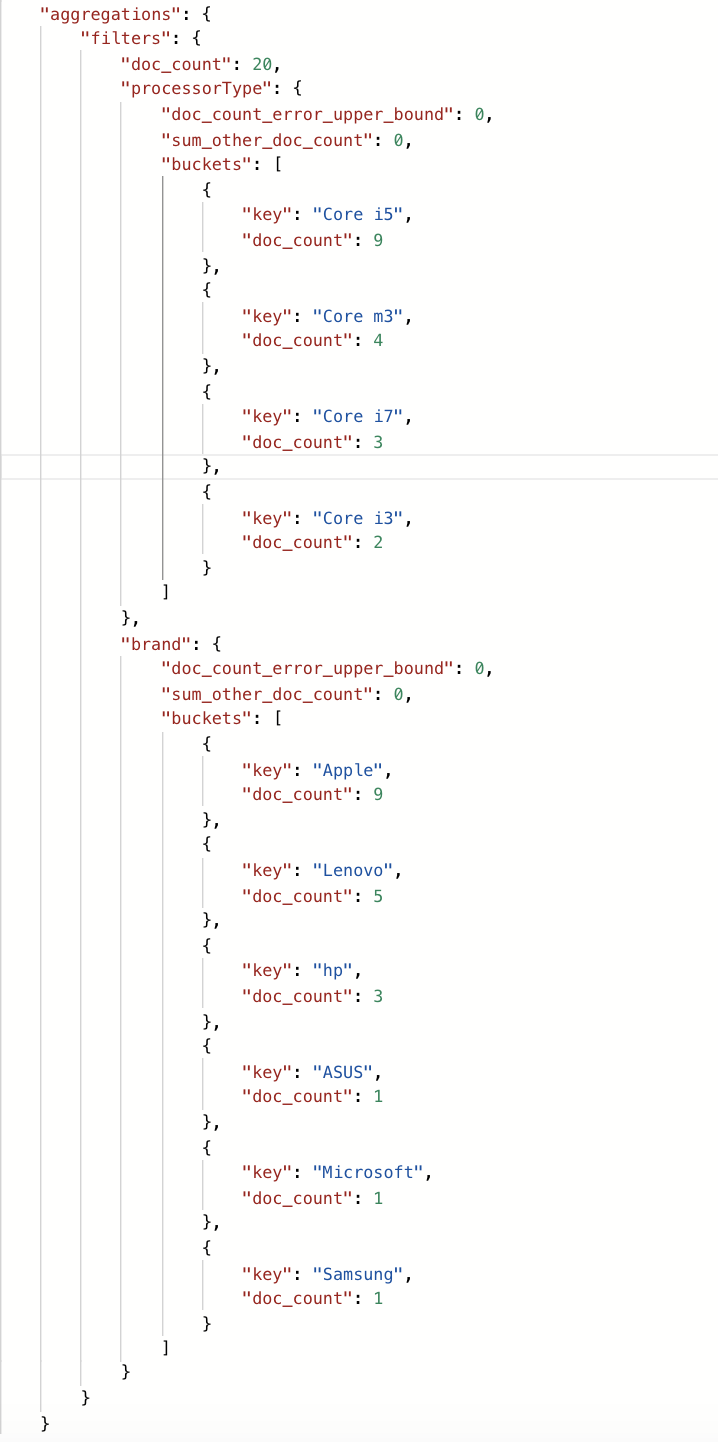
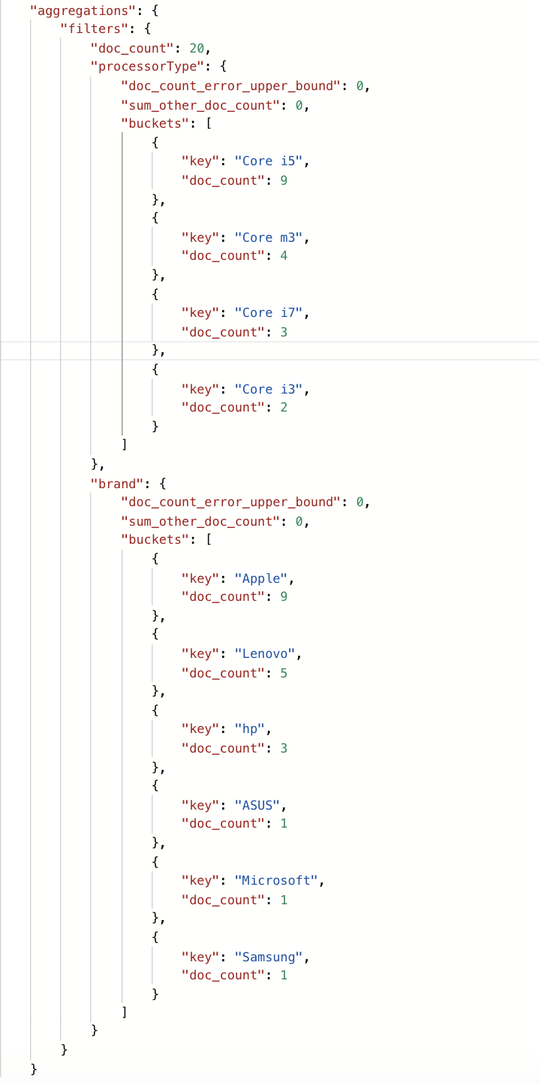
resized images

diff --git a/blog/_posts/2020-06-11-build-facets-with-elasticsearch.md b/blog/_posts/2020-06-11-build-facets-with-elasticsearch.md
@@ -71,7 +71,7 @@ POST http://127.0.0.1:9200/products/_search
 ```
 Running the above query will show user two aggregation buckets one for `processorType` and other with `brand` along with products count against each  
 <figure align="center"> 
-    <img src="{{ site.baseurl }}/img/20200611/aggregation_1.png" style="height: 400px; width: auto;" alt=""/>
+    <img src="{{ site.baseurl }}/img/20200611/aggregation_1.png" style="width: auto;" alt=""/>
 </figure>
 
 You will notice that it has only the `apple` brand. This is because by default elasticsearch executes its aggregations on the result set. 
@@ -112,7 +112,7 @@ POST http://127.0.0.1:9200/products/_search
 }
 ``` 
 <figure align="center"> 
-    <img src="{{ site.baseurl }}/img/20200611/aggregation_2.png" style="height: 800px; width: auto;" alt=""/>
+    <img src="{{ site.baseurl }}/img/20200611/aggregation_2.png" style="width: auto;" alt=""/>
 </figure>
 
 Now this solved our problem of getting all the filters but there's another problem doing, doing this will always show customer same brand and processor type aggregations regardless of our filters. Our aggregations needs to be a bit more complex for this to work, we need to add filters to them. Each aggregation needs to count on the dataset with all the filters applied, except for its own.
@@ -165,6 +165,12 @@ POST http://127.0.0.1:9200/products/_search
     }
 }
 ``` 
-The query finally produces that we required. And that wraps it up.
+The query finally produces that we required. 
+
+<figure align="center"> 
+    <img src="{{ site.baseurl }}/img/20200611/aggregation_3.png" style="width: auto;" alt=""/>
+</figure>
+
+And that wraps it up.
 
 Feel free to leave your feedback or questions in the comments section below.
